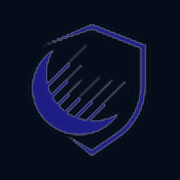
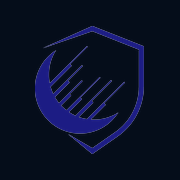
Use the original shield PNG in the navbar and sit it with the consulting heading.

Changed region(s): [[0.1667, 0.1111, 0.8333, 0.8889]]

diff --git a/public/consulting.html b/public/consulting.html
@@ -12,7 +12,7 @@
   <link rel="preconnect" href="https://fonts.googleapis.com" />
   <link rel="preconnect" href="https://fonts.gstatic.com" crossorigin />
   <link href="https://fonts.googleapis.com/css2?family=Inter:wght@400;500;600;700;800&display=swap" rel="stylesheet" />
-  <link rel="icon" href="/favicon.ico?v=2" />
+  <link rel="icon" href="/favicon.ico?v=3" />
   <link rel="apple-touch-icon" href="/apple-touch-icon.png" />
 
   <style>
@@ -427,7 +427,7 @@
     .services-bg .section-header {
       text-align: left;
       max-width: none;
-      margin-bottom: 0;
+      margin-bottom: 2rem;
     }
 
     .services-bg .section-header p {
@@ -435,24 +435,25 @@
       max-width: 36rem;
     }
 
-    .services-header {
-      display: grid;
-      grid-template-columns: minmax(0, 1fr) auto;
+    .services-heading {
+      display: flex;
       align-items: center;
-      gap: 1.5rem 2.5rem;
-      margin-bottom: 2.4rem;
-      position: relative;
+      gap: 0.7rem;
+    }
+
+    .services-heading h2 {
+      margin: 0;
     }
 
     .services-logo {
-      width: clamp(128px, 18vw, 196px);
-      height: auto;
+      height: 1.2em;
+      width: auto;
       display: block;
-      filter: drop-shadow(0 0 32px rgba(59,130,246,0.4));
+      flex-shrink: 0;
     }
 
-    body.light-mode .services-logo {
-      filter: drop-shadow(0 8px 24px rgba(29,78,216,0.22));
+    body:not(.light-mode) .services-logo {
+      filter: brightness(1.7);
     }
 
     .services-grid {
@@ -957,9 +958,6 @@
         grid-column: 1 / -1;
         grid-template-columns: 1.1fr 0.9fr;
       }
-      .services-logo {
-        width: 120px;
-      }
     }
 
     @media (max-width: 900px) {
@@ -986,13 +984,6 @@
       .service-card.featured {
         grid-template-columns: 1fr;
       }
-      .services-header {
-        grid-template-columns: 1fr;
-      }
-      .services-logo {
-        width: 96px;
-        justify-self: start;
-      }
     }
   </style>
 </head>
@@ -1004,7 +995,7 @@
   <nav class="navbar">
     <div class="navbar-inner">
       <a href="/" class="nav-brand">
-        <div class="nav-brand-icon"><img src="/logo.png" alt=""></div>
+        <div class="nav-brand-icon"><img src="/favicon.png" alt=""></div>
         <span class="nav-brand-text">Duggan <span>Cyber</span> Ops</span>
       </a>
 
@@ -1092,13 +1083,13 @@
   ============================================= -->
   <section class="services-bg" id="services">
     <div class="section-wrap">
-      <div class="services-header">
-        <div class="section-header">
-          <div class="section-label">Services</div>
+      <div class="section-header">
+        <div class="section-label">Services</div>
+        <div class="services-heading">
           <h2>What We Can Do for You</h2>
-          <p>The expertise behind global financial institutions - now working for you.</p>
+          <img class="services-logo" src="/favicon.png" alt="" />
         </div>
-        <img class="services-logo" src="/logo.png" alt="Duggan Cyber Ops" />
+        <p>The expertise behind global financial institutions - now working for you.</p>
       </div>
       <div class="services-grid">
 
@@ -1311,7 +1302,7 @@
   ============================================= -->
   <footer>
     <div class="footer-brand">
-      <div class="footer-brand-icon"><img src="/logo.png" alt=""></div>
+      <div class="footer-brand-icon"><img src="/favicon.png" alt=""></div>
       <span>Duggan Cyber Operations</span>
     </div>
     <div class="footer-copy">

diff --git a/public/index.html b/public/index.html
@@ -16,7 +16,7 @@
   <link rel="preconnect" href="https://fonts.googleapis.com" />
   <link rel="preconnect" href="https://fonts.gstatic.com" crossorigin />
   <link href="https://fonts.googleapis.com/css2?family=Inter:wght@400;500;600;700;800&display=swap" rel="stylesheet" />
-  <link rel="icon" href="/favicon.ico?v=2" />
+  <link rel="icon" href="/favicon.ico?v=3" />
   <link rel="apple-touch-icon" href="/apple-touch-icon.png" />
 
   <style>
@@ -771,7 +771,7 @@
   <nav class="navbar">
     <div class="navbar-inner">
       <a href="/" class="nav-brand">
-        <div class="nav-brand-icon"><img src="/logo.png" alt=""></div>
+        <div class="nav-brand-icon"><img src="/favicon.png" alt=""></div>
         <span class="nav-brand-text">Duggan <span>Cyber</span> Ops</span>
       </a>
 
@@ -883,7 +883,7 @@
   <!-- Footer -->
   <footer>
     <div class="footer-brand">
-      <div class="footer-brand-icon"><img src="/logo.png" alt=""></div>
+      <div class="footer-brand-icon"><img src="/favicon.png" alt=""></div>
       <span>Duggan Cyber Operations</span>
     </div>
     <div class="footer-copy">

diff --git a/public/Daniel-Duggan-Resume.html b/public/Daniel-Duggan-Resume.html
@@ -15,7 +15,7 @@
   <link rel="preconnect" href="https://fonts.googleapis.com" />
   <link rel="preconnect" href="https://fonts.gstatic.com" crossorigin />
   <link href="https://fonts.googleapis.com/css2?family=Inter:wght@400;500;600;700;800&display=swap" rel="stylesheet" />
-  <link rel="icon" href="/favicon.ico?v=2" />
+  <link rel="icon" href="/favicon.ico?v=3" />
   <link rel="apple-touch-icon" href="/apple-touch-icon.png" />
 
   <style>
@@ -840,7 +840,7 @@
   <nav class="navbar">
     <div class="navbar-inner">
       <a href="/" class="nav-brand">
-        <div class="nav-brand-icon"><img src="/logo.png" alt=""></div>
+        <div class="nav-brand-icon"><img src="/favicon.png" alt=""></div>
         <span class="nav-brand-text">Duggan <span>Cyber</span> Ops</span>
       </a>
 
@@ -1117,7 +1117,7 @@
 
   <footer>
     <div class="footer-brand">
-      <div class="footer-brand-icon"><img src="/logo.png" alt=""></div>
+      <div class="footer-brand-icon"><img src="/favicon.png" alt=""></div>
       <span>Duggan Cyber Operations</span>
     </div>
     <div class="footer-copy">

diff --git a/public/techblog.html b/public/techblog.html
@@ -13,7 +13,7 @@
   <link rel="preconnect" href="https://fonts.googleapis.com" />
   <link rel="preconnect" href="https://fonts.gstatic.com" crossorigin />
   <link href="https://fonts.googleapis.com/css2?family=Inter:wght@400;500;600;700;800&family=Source+Serif+4:opsz,wght@8..60,500;8..60,700&display=swap" rel="stylesheet" />
-  <link rel="icon" href="/favicon.ico?v=2" />
+  <link rel="icon" href="/favicon.ico?v=3" />
   <link rel="apple-touch-icon" href="/apple-touch-icon.png" />
   <style>
     :root {
@@ -442,7 +442,7 @@
   <nav class="navbar">
     <div class="navbar-inner">
       <a href="/" class="nav-brand">
-        <div class="nav-brand-icon"><img src="/logo.png" alt=""></div>
+        <div class="nav-brand-icon"><img src="/favicon.png" alt=""></div>
         <span class="nav-brand-text">Duggan <span>Cyber</span> Ops</span>
       </a>
 

diff --git a/public/foodblog.html b/public/foodblog.html
@@ -19,7 +19,7 @@
   <link rel="preconnect" href="https://fonts.googleapis.com" />
   <link rel="preconnect" href="https://fonts.gstatic.com" crossorigin />
   <link href="https://fonts.googleapis.com/css2?family=Fraunces:opsz,wght@9..144,500;9..144,700&family=Inter:wght@400;500;600;700;800&display=swap" rel="stylesheet" />
-  <link rel="icon" href="/favicon.ico?v=2" />
+  <link rel="icon" href="/favicon.ico?v=3" />
   <link rel="apple-touch-icon" href="/apple-touch-icon.png" />
 
   <style>
@@ -634,7 +634,7 @@
   <nav class="navbar">
     <div class="navbar-inner">
       <a href="/" class="nav-brand">
-        <div class="nav-brand-icon"><img src="/logo.png" alt=""></div>
+        <div class="nav-brand-icon"><img src="/favicon.png" alt=""></div>
         <span class="nav-brand-text">Duggan <span>Chow</span> Ops</span>
       </a>
 

diff --git a/public/RSSfeed/navbarnative.html b/public/RSSfeed/navbarnative.html
@@ -6,7 +6,7 @@
     <meta name="viewport" content="width=device-width, initial-scale=1.0" />
     <link rel="stylesheet" href="https://cdn.jsdelivr.net/npm/bootstrap@4.3.1/dist/css/bootstrap.min.css"
       integrity="sha384-ggOyR0iXCbMQv3Xipma34MD+dH/1fQ784/j6cY/iJTQUOhcWr7x9JvoRxT2MZw1T" crossorigin="anonymous" />
-    <link rel="icon" href="/favicon.ico?v=2" />
+    <link rel="icon" href="/favicon.ico?v=3" />
     <link rel="stylesheet" href="https://fonts.googleapis.com/css?family=Inter:400,600&display=swap" />
     <style>
       /* Global Styles */

diff --git a/public/RSSfeed/securitynews.html b/public/RSSfeed/securitynews.html
@@ -13,7 +13,7 @@
     <!-- Bootstrap CSS -->
     <link rel="stylesheet" href="https://cdn.jsdelivr.net/npm/bootstrap@4.3.1/dist/css/bootstrap.min.css"
       integrity="sha384-ggOyR0iXCbMQv3Xipma34MD+dH/1fQ784/j6cY/iJTQUOhcWr7x9JvoRxT2MZw1T" crossorigin="anonymous">
-    <link rel="icon" href="/favicon.ico?v=2" />
+    <link rel="icon" href="/favicon.ico?v=3" />
     <link rel="stylesheet" href="https://fonts.googleapis.com/css?family=Inter:400,600&display=swap" />
 
     <style>
